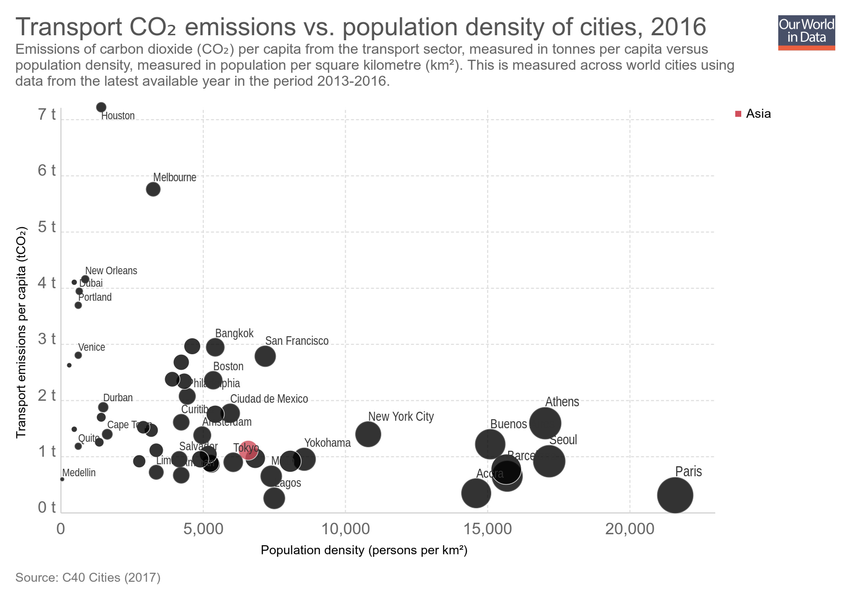
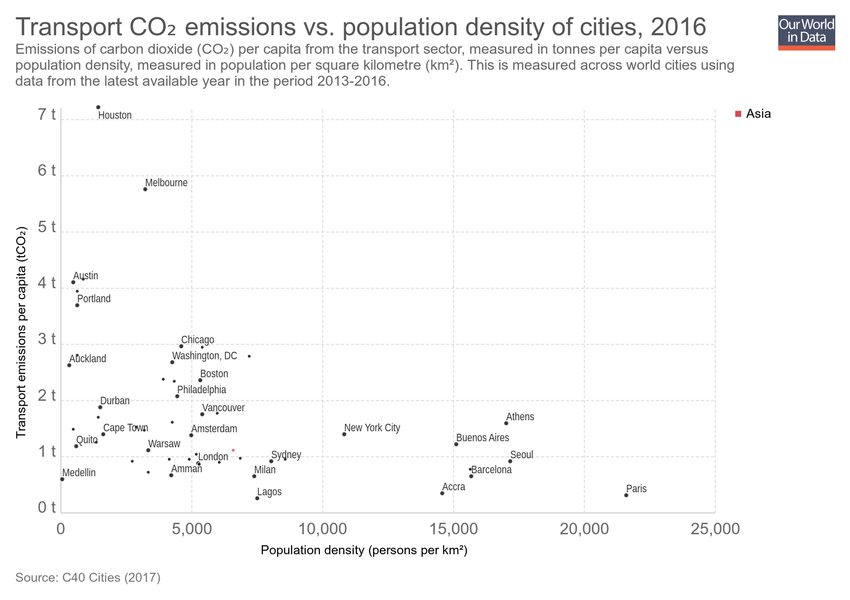
Updating chart transport-emissions-city-density

diff --git a/grapher/transport-emissions-city-density.html b/grapher/transport-emissions-city-density.html
@@ -1,4 +1,4 @@
-<!doctype html><html><head><meta name="viewport" content="width=device-width, initial-scale=1" /><title>Transport CO₂ emissions vs. population density of cities - Our World in Data</title><meta name="description" content="Emissions of carbon dioxide (CO₂) per capita from the transport sector, measured in tonnes per capita versus population density, measured in population per square kilometre (km²). This is measured across world cities using data from the latest available year in the period 2013-2016." /><link rel="canonical" href="https://ourworldindata.org/grapher/transport-emissions-city-density" /><meta property="fb:app_id" content="1149943818390250" /><meta property="og:url" content="https://ourworldindata.org/grapher/transport-emissions-city-density" /><meta property="og:title" content="Transport CO₂ emissions vs. population density of cities" /><meta property="og:description" content="Emissions of carbon dioxide (CO₂) per capita from the transport sector, measured in tonnes per capita versus population density, measured in population per square kilometre (km²). This is measured across world cities using data from the latest available year in the period 2013-2016." /><meta property="og:image" content="https://ourworldindata.org/grapher/exports/transport-emissions-city-density.png?v=1" /><meta property="og:image:width" content="850" /><meta property="og:image:height" content="600" /><meta property="og:site_name" content="Our World in Data" /><meta name="twitter:card" content="summary_large_image" /><meta name="twitter:site" content="@OurWorldInData" /><meta name="twitter:creator" content="@OurWorldInData" /><meta name="twitter:title" content="Transport CO₂ emissions vs. population density of cities" /><meta name="twitter:description" content="Emissions of carbon dioxide (CO₂) per capita from the transport sector, measured in tonnes per capita versus population density, measured in population per square kilometre (km²). This is measured across world cities using data from the latest available year in the period 2013-2016." /><meta name="twitter:image" content="https://ourworldindata.org/grapher/exports/transport-emissions-city-density.png?v=1" /><style>
+<!doctype html><html><head><meta name="viewport" content="width=device-width, initial-scale=1" /><title>Transport CO₂ emissions vs. population density of cities - Our World in Data</title><meta name="description" content="Emissions of carbon dioxide (CO₂) per capita from the transport sector, measured in tonnes per capita versus population density, measured in population per square kilometre (km²). This is measured across world cities using data from the latest available year in the period 2013-2016." /><link rel="canonical" href="https://ourworldindata.org/grapher/transport-emissions-city-density" /><meta property="fb:app_id" content="1149943818390250" /><meta property="og:url" content="https://ourworldindata.org/grapher/transport-emissions-city-density" /><meta property="og:title" content="Transport CO₂ emissions vs. population density of cities" /><meta property="og:description" content="Emissions of carbon dioxide (CO₂) per capita from the transport sector, measured in tonnes per capita versus population density, measured in population per square kilometre (km²). This is measured across world cities using data from the latest available year in the period 2013-2016." /><meta property="og:image" content="https://ourworldindata.org/grapher/exports/transport-emissions-city-density.png?v=2" /><meta property="og:image:width" content="850" /><meta property="og:image:height" content="600" /><meta property="og:site_name" content="Our World in Data" /><meta name="twitter:card" content="summary_large_image" /><meta name="twitter:site" content="@OurWorldInData" /><meta name="twitter:creator" content="@OurWorldInData" /><meta name="twitter:title" content="Transport CO₂ emissions vs. population density of cities" /><meta name="twitter:description" content="Emissions of carbon dioxide (CO₂) per capita from the transport sector, measured in tonnes per capita versus population density, measured in population per square kilometre (km²). This is measured across world cities using data from the latest available year in the period 2013-2016." /><meta name="twitter:image" content="https://ourworldindata.org/grapher/exports/transport-emissions-city-density.png?v=2" /><style>
         html, body {
             height: 100%;
             margin: 0;
@@ -20,8 +20,8 @@
         }
     </style><noscript><style>
                     figure { display: none !important; }
-                </style></noscript><link rel="stylesheet" href="https://ourworldindata.org/grapher/assets/commons.bundle.397229a8467cf53bfc99.css" /><link rel="preload" href="/grapher/data/variables/97901+97899+123.json?v=1" as="fetch" crossorigin /></head><body class="singleChart"><figure data-grapher-src="/grapher/transport-emissions-city-density"></figure><noscript id="fallback"><img src="/grapher/exports/transport-emissions-city-density.svg" /><p>Interactive visualization requires JavaScript</p></noscript><script src="https://cdn.polyfill.io/v2/polyfill.min.js?features=es6,fetch"></script><script src="https://ourworldindata.org/grapher/assets/commons.bundle.397229a8467cf53bfc99.js"></script><script src="https://ourworldindata.org/grapher/assets/charts.bundle.397229a8467cf53bfc99.js"></script><script>
-        var jsonConfig = {"map":{"projection":"World","colorSchemeLabels":[],"colorSchemeValues":[],"customNumericColors":[],"customCategoryColors":{},"customCategoryLabels":{},"customHiddenCategories":{}},"tab":"chart","slug":"transport-emissions-city-density","type":"ScatterPlot","title":"Transport CO₂ emissions vs. population density of cities","xAxis":{"max":23000,"min":0,"scaleType":"linear"},"yAxis":{"min":0,"scaleType":"linear"},"version":1,"subtitle":"Emissions of carbon dioxide (CO₂) per capita from the transport sector, measured in tonnes per capita versus population density, measured in population per square kilometre (km²). This is measured across world cities using data from the latest available year in the period 2013-2016.","hasMapTab":false,"stackMode":"absolute","dimensions":[{"display":{"name":"Transport emissions per capita (tCO₂)","unit":"tonnes CO₂ per capita","shortUnit":"t"},"property":"y","variableId":97901},{"display":{"name":"Population density (persons per km²)","unit":"persons per km²","numDecimalPlaces":0},"property":"x","variableId":97899},{"display":{},"property":"size","variableId":97899},{"display":{},"property":"color","variableId":123}],"sourceDesc":"C40 Cities (2017)","hasChartTab":true,"isPublished":true,"selectedData":[],"id":2991};
+                </style></noscript><link rel="stylesheet" href="https://ourworldindata.org/grapher/assets/commons.bundle.397229a8467cf53bfc99.css" /><link rel="preload" href="/grapher/data/variables/97901+97899+123.json?v=2" as="fetch" crossorigin /></head><body class="singleChart"><figure data-grapher-src="/grapher/transport-emissions-city-density"></figure><noscript id="fallback"><img src="/grapher/exports/transport-emissions-city-density.svg" /><p>Interactive visualization requires JavaScript</p></noscript><script src="https://cdn.polyfill.io/v2/polyfill.min.js?features=es6,fetch"></script><script src="https://ourworldindata.org/grapher/assets/commons.bundle.397229a8467cf53bfc99.js"></script><script src="https://ourworldindata.org/grapher/assets/charts.bundle.397229a8467cf53bfc99.js"></script><script>
+        var jsonConfig = {"id":2991,"map":{"projection":"World","colorSchemeLabels":[],"colorSchemeValues":[],"customNumericColors":[],"customCategoryColors":{},"customCategoryLabels":{},"customHiddenCategories":{}},"tab":"chart","slug":"transport-emissions-city-density","type":"ScatterPlot","title":"Transport CO₂ emissions vs. population density of cities","xAxis":{"max":25000,"min":0,"scaleType":"linear"},"yAxis":{"min":0,"scaleType":"linear"},"version":2,"subtitle":"Emissions of carbon dioxide (CO₂) per capita from the transport sector, measured in tonnes per capita versus population density, measured in population per square kilometre (km²). This is measured across world cities using data from the latest available year in the period 2013-2016.","hasMapTab":false,"stackMode":"absolute","dimensions":[{"display":{"name":"Transport emissions per capita (tCO₂)","unit":"tonnes CO₂ per capita","shortUnit":"t"},"property":"y","variableId":97901},{"display":{"name":"Population density (persons per km²)","unit":"persons per km²","numDecimalPlaces":0},"property":"x","variableId":97899},{"display":{},"property":"color","variableId":123}],"sourceDesc":"C40 Cities (2017)","hasChartTab":true,"isPublished":true,"selectedData":[]};
         var figure = document.getElementsByTagName("figure")[0];
         try {
             window.App = {};
